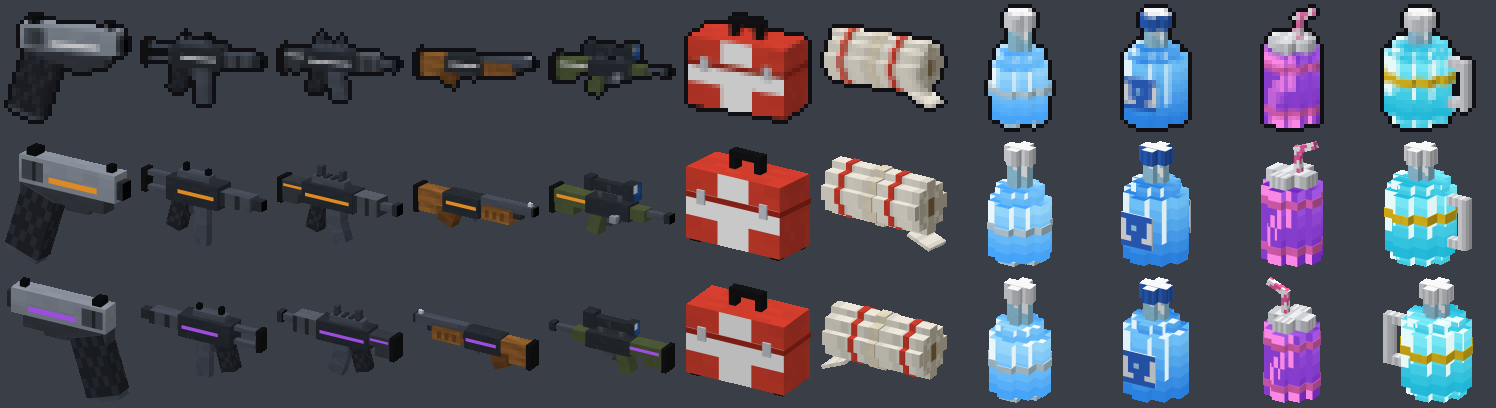
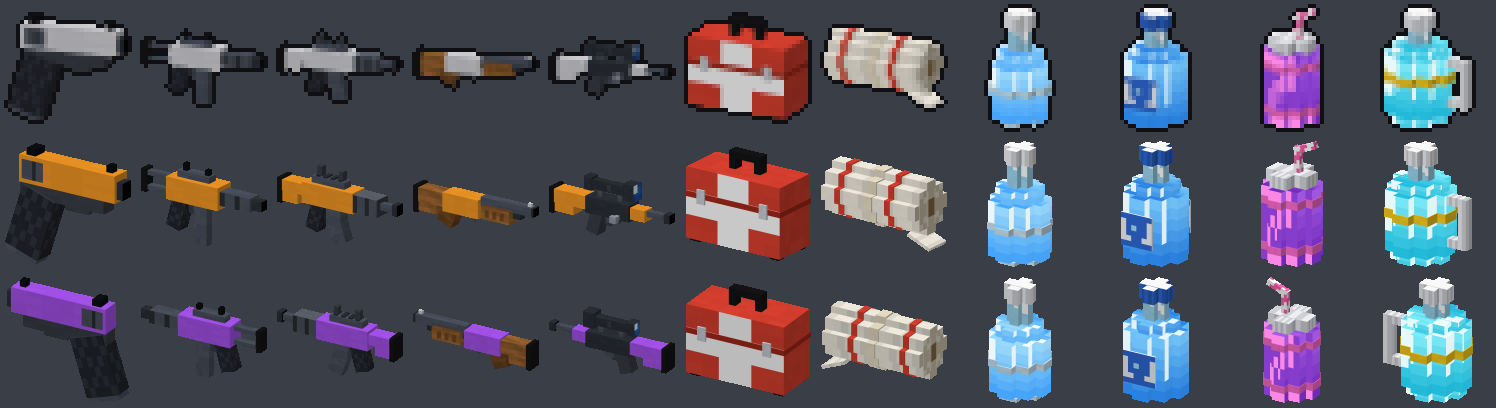
1.0.1-test1: guns in their rarity colour, loot beams, fairer bots
- Each gun's main body is drawn in its rarity colour instead of a thin stripe (make_item_models.py "paint" tile).
- LootBeams: a short light beam in the rarity colour over guns on the ground.
- Bots (BotEntity.mayChase): one without a gun loots instead of chasing players; none goes after a player with no
  gun; at most the 2 closest chase one player; a player who hits a bot can always be fought back.
- The main board shows a post-1.0 test build as "v1.0.1 - TEST 1".

diff --git a/fabric/tools/models/make_item_models.py b/fabric/tools/models/make_item_models.py
@@ -158,6 +158,15 @@ def _(x, y):  # tinted with the rarity colour: light, with a brighter top edge
     return (255, 255, 255, 255) if y < 2 else (226, 226, 226, 255)
 
 
+@tile("paint")
+def _(x, y):  # a gun's body, tinted with the rarity colour (creator: rarity should stand out more than a stripe)
+    if y == 0:
+        return (255, 255, 255, 255)
+    if y == TILE - 1:
+        return (196, 196, 196, 255)
+    return noise((236, 236, 236, 255), 0.03)
+
+
 @tile("dark")
 def _(x, y):
     return hexc("#0E0F12")
@@ -340,13 +349,12 @@ def zc(depth, mid=16.0):
 def gun_pistol():
     b = []
     z0, z1 = zc(3)
-    b += [box(8, 9, z0, 24, 13, z1, "metal_light", faces={"down": "metal_mid"})]  # slide
+    b += [box(8, 9, z0, 24, 13, z1, "paint", faces={"down": "metal_mid"}, tint=True)]  # slide, in the rarity colour
     b += [box(8.5, 9.6, z0 - 0.05, 12, 12.4, z0, "vents"), box(8.5, 9.6, z1, 12, 12.4, z1 + 0.05, "vents")]  # serrations
     b += [box(22, 8, 15.4, 23, 9, 16.6, "dark"), box(9, 8, 14.9, 10.5, 9, 17.1, "dark")]  # sights
     b += [box(24, 10, 15, 25, 12.5, 17, "bore", faces={"north": "metal_dark", "south": "metal_dark", "up": "metal_dark", "down": "metal_dark"})]
     zz0, zz1 = zc(2.6)
     b += [box(8, 13, zz0, 22, 15, zz1, "polymer")]  # frame
-    b += [box(13, 11.4, z0 - 0.08, 21, 12.2, z0, "accent", tint=True, glow=6), box(13, 11.4, z1, 21, 12.2, z1 + 0.08, "accent", tint=True, glow=6)]
     b += [box(15, 15, 15.5, 19, 16, 16.5, "polymer"), box(18, 13.5, 15.5, 19, 16, 16.5, "polymer"), box(15.6, 14.6, 15.7, 16.4, 16, 16.3, "metal_mid")]
     gz0, gz1 = zc(3.2)
     b += [box(8.4, 14, gz0, 14, 23.5, gz1, "grip", faces={"up": "polymer", "down": "rubber"}, rot=("z", -18, (11, 14.5, 16)))]
@@ -357,14 +365,13 @@ def gun_pistol():
 def gun_smg():
     b = []
     z0, z1 = zc(5)
-    b += [box(9, 11, z0, 22, 16, z1, "metal_dark")]  # receiver
+    b += [box(9, 11, z0, 22, 16, z1, "paint", tint=True)]  # receiver, in the rarity colour
     b += [box(11, 9.6, 14.8, 19, 11, 17.2, "metal_mid"), box(12, 8, 15.4, 13, 9.6, 16.6, "dark"), box(17.5, 8.4, 15.4, 18.5, 9.6, 16.6, "dark")]
     s0, s1 = zc(3.4)
     b += [box(22, 12, s0, 29.5, 15, s1, "vents", faces={"up": "metal_mid", "down": "metal_mid", "east": "metal_mid", "west": "metal_mid"})]
     b += [box(29.5, 12.4, 15, 32, 14.6, 17, "bore", faces={"north": "metal_dark", "south": "metal_dark", "up": "metal_dark", "down": "metal_dark"})]
     # Folding wire stock.
     b += [box(3, 11.4, 15.2, 9, 12.4, 16.8, "metal_mid"), box(3, 14.6, 15.2, 9, 15.6, 16.8, "metal_mid"), box(2, 11, 14.6, 3.2, 16, 17.4, "rubber")]
-    b += [box(12, 13.2, z0 - 0.08, 21, 14, z0, "accent", tint=True, glow=6), box(12, 13.2, z1, 21, 14, z1 + 0.08, "accent", tint=True, glow=6)]
     gz0, gz1 = zc(3.2)
     b += [box(10, 15.5, gz0, 13.4, 22.5, gz1, "grip", faces={"down": "rubber"}, rot=("z", -15, (11.7, 16, 16)))]
     b += [box(15, 15.8, 15, 18.2, 25, 17, "metal_mid", faces={"down": "dark"})]  # magazine
@@ -375,7 +382,7 @@ def gun_smg():
 def gun_assault_rifle():
     b = []
     z0, z1 = zc(5)
-    b += [box(7, 11, z0, 21, 16, z1, "metal_dark")]  # receiver
+    b += [box(7, 11, z0, 21, 16, z1, "paint", tint=True)]  # receiver, in the rarity colour
     b += [box(9, 9.4, 14.6, 18, 11, 17.4, "metal_mid")]  # top rail
     for x in range(10, 18, 2):
         b += [box(x, 9.0, 14.8, x + 1, 9.4, 17.2, "metal_dark")]
@@ -385,9 +392,7 @@ def gun_assault_rifle():
     b += [box(27.5, 12.5, 15.2, 31, 14.1, 16.8, "metal_mid")]
     b += [box(31, 12, 14.8, 32.4, 14.6, 17.2, "bore", faces={"north": "metal_dark", "south": "metal_dark", "up": "metal_dark", "down": "metal_dark"})]
     s0, s1 = zc(4)
-    b += [box(1, 11.8, s0, 7.2, 14.4, s1, "polymer"), box(1, 14.4, s0 + 0.2, 5.4, 17, s1 - 0.2, "polymer"), box(0, 11.4, s0 - 0.2, 1.2, 17.4, s1 + 0.2, "rubber")]
-    b += [box(8, 13.4, z0 - 0.08, 20, 14.2, z0, "accent", tint=True, glow=6), box(8, 13.4, z1, 20, 14.2, z1 + 0.08, "accent", tint=True, glow=6)]
-    b += [box(1.6, 12.6, s0 - 0.08, 6.6, 13.2, s0, "accent", tint=True, glow=4), box(1.6, 12.6, s1, 6.6, 13.2, s1 + 0.08, "accent", tint=True, glow=4)]
+    b += [box(1, 11.8, s0, 7.2, 14.4, s1, "paint", tint=True), box(1, 14.4, s0 + 0.2, 5.4, 17, s1 - 0.2, "paint", tint=True), box(0, 11.4, s0 - 0.2, 1.2, 17.4, s1 + 0.2, "rubber")]
     gz0, gz1 = zc(3.2)
     b += [box(9, 15.5, gz0, 12.4, 22.5, gz1, "grip", faces={"down": "rubber"}, rot=("z", -15, (10.7, 16, 16)))]
     m0, m1 = zc(3)
@@ -399,7 +404,7 @@ def gun_assault_rifle():
 def gun_pump_shotgun():
     b = []
     z0, z1 = zc(4.4)
-    b += [box(8, 11.6, z0, 17.5, 16, z1, "metal_dark")]  # receiver
+    b += [box(8, 11.6, z0, 17.5, 16, z1, "paint", tint=True)]  # receiver, in the rarity colour
     b += [box(17.5, 11, 14.9, 31, 13, 17.1, "metal_mid")]  # barrel
     b += [box(31, 11, 14.9, 31.6, 13, 17.1, "bore", faces={"north": "metal_dark", "south": "metal_dark", "up": "metal_dark", "down": "metal_dark"})]
     b += [box(17.5, 13, 15.1, 28, 14.4, 16.9, "metal_dark")]  # tube magazine
@@ -411,7 +416,6 @@ def gun_pump_shotgun():
     s0, s1 = zc(3.6)
     b += [box(1, 12, s0, 8.4, 15.2, s1, "wood"), box(1, 15.2, s0 + 0.2, 6, 17.4, s1 - 0.2, "wood"), box(0, 11.6, s0 - 0.2, 1.2, 17.8, s1 + 0.2, "rubber")]
     b += [box(7.4, 15, s0 + 0.3, 11.4, 19.4, s1 - 0.3, "wood_dark", rot=("z", -22.5, (9.4, 15.5, 16)))]  # grip wrist
-    b += [box(9, 13.3, z0 - 0.08, 17, 14.1, z0, "accent", tint=True, glow=6), box(9, 13.3, z1, 17, 14.1, z1 + 0.08, "accent", tint=True, glow=6)]
     b += [box(11, 16, 15.6, 15.4, 16.8, 16.4, "metal_mid"), box(14.6, 16, 15.6, 15.4, 17.6, 16.4, "metal_mid")]
     return b
 
@@ -419,11 +423,10 @@ def gun_pump_shotgun():
 def gun_sniper():
     b = []
     s0, s1 = zc(4)
-    b += [box(1, 12.2, s0, 11, 15.4, s1, "olive"), box(1, 15.4, s0 + 0.3, 6.4, 17.6, s1 - 0.3, "olive"), box(0, 11.8, s0 - 0.2, 1.2, 18, s1 + 0.2, "rubber")]
-    b += [box(2, 13.2, s0 - 0.08, 10, 14, s0, "accent", tint=True, glow=4), box(2, 13.2, s1, 10, 14, s1 + 0.08, "accent", tint=True, glow=4)]
+    b += [box(1, 12.2, s0, 11, 15.4, s1, "paint", tint=True), box(1, 15.4, s0 + 0.3, 6.4, 17.6, s1 - 0.3, "paint", tint=True), box(0, 11.8, s0 - 0.2, 1.2, 18, s1 + 0.2, "rubber")]
     z0, z1 = zc(4.4)
     b += [box(10, 12, z0, 22, 16, z1, "metal_dark")]  # receiver
-    b += [box(22, 12.6, z0 + 0.6, 26, 15.4, z1 - 0.6, "olive")]  # fore-end
+    b += [box(22, 12.6, z0 + 0.6, 26, 15.4, z1 - 0.6, "paint", tint=True)]  # fore-end, in the rarity colour
     b += [box(26, 12.9, 15.25, 31, 14.2, 16.75, "metal_mid")]
     b += [box(31, 12.5, 14.9, 32.6, 14.6, 17.1, "bore", faces={"north": "metal_dark", "south": "metal_dark", "up": "metal_dark", "down": "metal_dark"})]
     # Scope: tube, bells with lenses, mounts.
@@ -433,7 +436,7 @@ def gun_sniper():
     b += [box(15.5, 8.6, 14.7, 16.5, 10, 17.3, "polymer")]  # turret
     b += [box(18.6, 14.8, z1, 19.6, 15.8, 19.6, "metal_light"), box(18.2, 14.6, 19.2, 20, 16.2, 20.4, "metal_light")]  # bolt handle
     gz0, gz1 = zc(3.2)
-    b += [box(11, 15.6, gz0, 14.2, 21, gz1, "olive", faces={"down": "rubber"}, rot=("z", -15, (12.6, 16, 16)))]
+    b += [box(11, 15.6, gz0, 14.2, 21, gz1, "polymer", faces={"down": "rubber"}, rot=("z", -15, (12.6, 16, 16)))]
     b += [box(15, 15.8, 15.2, 18, 17.8, 16.8, "metal_mid"), box(14.2, 16, 15.6, 14.9, 18.6, 16.4, "polymer"), box(14.2, 18, 15.6, 15.8, 18.7, 16.4, "polymer")]
     return b
 

diff --git a/fabric/src/main/java/gg/minebloxroyale/bot/BotEntity.java b/fabric/src/main/java/gg/minebloxroyale/bot/BotEntity.java
@@ -113,6 +113,13 @@ public class BotEntity extends PathfinderMob {
 	private String finishedBy;
 	/** Ticks spent searching the chest it stands at (chestSearchSeconds, like a player holding F). */
 	private int searchTicks;
+	/** The player who last hurt it, and when: it may always fight them back. */
+	private UUID provokedBy;
+	private int provokedAt = -1000;
+	/** How long a hit lets it fight back against anyone (a player with no gun, a player others already chase). */
+	private static final int PROVOKED_TICKS = 20 * 20;
+	/** Bots chasing one player at once (creator: they ganged up on a player who had just landed). */
+	private static final int MAX_CHASERS = 2;
 
 	public BotEntity(EntityType<? extends BotEntity> type, Level level) {
 		super(type, level);
@@ -692,30 +699,51 @@ public class BotEntity extends PathfinderMob {
 	private void pickTarget(ServerLevel level) {
 		// (A player who switched to creative is dropped too, like one in creative is never picked.)
 		if (target != null && (!target.isAlive() || target.isSpectator() || target instanceof Player tp && tp.isCreative() || Teams.sameTeam(this, target)
-			|| distanceTo(target) > 64 || !hasLineOfSight(target))) target = null;
+			|| distanceTo(target) > 64 || !hasLineOfSight(target) || target instanceof Player p && !mayChase(level, p))) target = null;
 		// A visible player within botPlayerRange can be picked at any time, even while this bot is fighting another
 		// bot.
 		float playerRange = MinebloxRoyale.setting("botPlayerRange");
 		if (target instanceof BotEntity && getRandom().nextFloat() < MinebloxRoyale.setting("botPlayerSwitchChance")) {
-			Player p = level.getEntitiesOfClass(Player.class, getBoundingBox().inflate(playerRange),
-					e -> e.isAlive() && !e.isSpectator() && !e.isCreative() && !Teams.sameTeam(this, e) && distanceTo(e) <= playerRange && hasLineOfSight(e))
-				.stream().min(Comparator.comparingDouble(this::distanceToSqr)).orElse(null);
+			Player p = nearestPlayer(level, playerRange);
 			if (p != null) target = p;
 		}
 		if (target != null) return;
-		// The nearest visible fighter, players first: a player within botPlayerRange is always chased, armed or not (an
-		// unarmed bot runs in with its pickaxe); without a gun, other bots only up close.
-		Player near = level.getEntitiesOfClass(Player.class, getBoundingBox().inflate(playerRange),
-				e -> e.isAlive() && !e.isSpectator() && !e.isCreative() && !Teams.sameTeam(this, e) && distanceTo(e) <= playerRange && hasLineOfSight(e))
-			.stream().min(Comparator.comparingDouble(this::distanceToSqr)).orElse(null);
+		// The nearest visible fighter, players first (a player within botPlayerRange is chased when that's fair:
+		// mayChase); without a gun, other bots only up close.
+		Player near = nearestPlayer(level, playerRange);
 		if (near != null) {
 			target = near;
 			return;
 		}
 		double reach = armed() ? 48 : 6;
 		target = level.getEntitiesOfClass(LivingEntity.class, getBoundingBox().inflate(reach),
-				e -> e != this && e.isAlive() && !e.isSpectator() && !Teams.sameTeam(this, e) && (e instanceof BotEntity || (e instanceof Player p && !p.isCreative())) && hasLineOfSight(e))
+				e -> e != this && e.isAlive() && !e.isSpectator() && !Teams.sameTeam(this, e) && (e instanceof BotEntity || (e instanceof Player p && !p.isCreative() && mayChase(level, p))) && hasLineOfSight(e))
 			.stream().min(Comparator.comparingDouble(e -> distanceToSqr(e) * (e instanceof Player && distanceTo(e) <= playerRange ? 0.5 : 1.0))).orElse(null);
+	}
+
+	private Player nearestPlayer(ServerLevel level, float range) {
+		return level.getEntitiesOfClass(Player.class, getBoundingBox().inflate(range),
+				e -> e.isAlive() && !e.isSpectator() && !e.isCreative() && !Teams.sameTeam(this, e) && distanceTo(e) <= range && hasLineOfSight(e) && mayChase(level, e))
+			.stream().min(Comparator.comparingDouble(this::distanceToSqr)).orElse(null);
+	}
+
+	/**
+	 * Fair to go after this player (creator: bots ganged up on a player who had just landed, before they had a gun)? A
+	 * player who hit it lately, always. Otherwise only with a gun of its own (it loots first after landing), only a
+	 * player who has a gun too, and only while fewer than MAX_CHASERS bots closer to them are on them already.
+	 */
+	private boolean mayChase(ServerLevel level, Player p) {
+		if (p.getUUID().equals(provokedBy) && tickCount - provokedAt < PROVOKED_TICKS) return true;
+		if (!armed() || !hasGun(p)) return false;
+		double mine = distanceToSqr(p);
+		return level.getEntitiesOfClass(BotEntity.class, p.getBoundingBox().inflate(64),
+			b -> b != this && b.target == p && b.isAlive() && b.distanceToSqr(p) < mine).size() < MAX_CHASERS;
+	}
+
+	private static boolean hasGun(Player p) {
+		for (int i = 0; i < p.getInventory().getContainerSize(); i++)
+			if (p.getInventory().getItem(i).getItem() instanceof WeaponItem) return true;
+		return false;
 	}
 
 	/** Knocked: crawl towards the nearest teammate who is standing (or stay put). */
@@ -834,6 +862,10 @@ public class BotEntity extends PathfinderMob {
 		Entity by = source.getEntity();
 		if (hurt && by instanceof LivingEntity le && le != this && !Teams.sameTeam(this, le) && !Knocked.is(this)) {
 			lastHurt = tickCount;
+			if (le instanceof Player) {
+				provokedBy = le.getUUID();
+				provokedAt = tickCount;
+			}
 			if (target == null || getRandom().nextFloat() < 0.5F) target = le;
 			if (caring) { // shot while drinking: stop and fight back (out of its box's wall on the shooter's side)
 				stopUsingItem();

diff --git a/fabric/src/client/java/gg/minebloxroyale/client/LootBeams.java b/fabric/src/client/java/gg/minebloxroyale/client/LootBeams.java
@@ -1,0 +1,71 @@
+package gg.minebloxroyale.client;
+
+import com.mojang.blaze3d.vertex.PoseStack;
+import com.mojang.blaze3d.vertex.VertexConsumer;
+import gg.minebloxroyale.item.Guns;
+import gg.minebloxroyale.item.WeaponItem;
+import java.util.ArrayList;
+import java.util.List;
+import net.minecraft.client.Minecraft;
+import net.minecraft.client.renderer.SubmitNodeCollector;
+import net.minecraft.client.renderer.rendertype.RenderTypes;
+import net.minecraft.client.renderer.texture.OverlayTexture;
+import net.minecraft.world.entity.Entity;
+import net.minecraft.world.entity.item.ItemEntity;
+import net.minecraft.world.phys.Vec3;
+
+/**
+ * Fortnite's loot beams (creator: a gun's rarity should stand out more): a short pillar of light in the rarity colour
+ * over every gun lying on the ground, bright at the bottom and fading out upwards, so you can tell a gold gun from a
+ * grey one from across a room.
+ */
+public final class LootBeams {
+	private static final double RANGE = 64, HEIGHT = 2.6;
+	private static final int FULL_BRIGHT = 0xF000F0;
+
+	private LootBeams() {
+	}
+
+	static void draw(PoseStack ps, SubmitNodeCollector out, Vec3 cam) {
+		Minecraft mc = Minecraft.getInstance();
+		if (mc.level == null || mc.player == null) return;
+		List<double[]> beams = new ArrayList<>();
+		for (Entity e : mc.level.entitiesForRendering()) {
+			if (!(e instanceof ItemEntity item) || !(item.getItem().getItem() instanceof WeaponItem)) continue;
+			if (e.distanceToSqr(mc.player) > RANGE * RANGE) continue;
+			beams.add(new double[] { e.getX(), e.getY(), e.getZ(), Guns.rarity(item.getItem()).color() });
+		}
+		if (beams.isEmpty()) return;
+		out.submitCustomGeometry(ps, RenderTypes.entityTranslucentEmissive(WorldVisuals.white()), (pose, vc) -> {
+			for (double[] b : beams) {
+				int rgb = (int) b[3] & 0xFFFFFF;
+				column(vc, pose, cam, b[0], b[1], b[2], 0.05, 0xC0, rgb);
+				column(vc, pose, cam, b[0], b[1], b[2], 0.16, 0x48, rgb);
+			}
+		});
+	}
+
+	/** Four sides of a square pillar, alpha going from `alpha` at the bottom to nothing at the top. */
+	private static void column(VertexConsumer vc, PoseStack.Pose pose, Vec3 cam, double x, double y, double z, double r, int alpha, int rgb) {
+		int bottom = alpha << 24 | rgb, top = rgb;
+		double[][] c = { { x - r, z - r }, { x + r, z - r }, { x + r, z + r }, { x - r, z + r } };
+		for (int i = 0; i < 4; i++) {
+			double[] a = c[i], b = c[(i + 1) % 4];
+			float nx = (float) Math.signum((a[0] + b[0]) / 2 - x), nz = (float) Math.signum((a[1] + b[1]) / 2 - z);
+			// Both windings, so the pillar shows from inside too.
+			v(vc, pose, cam, a[0], y + HEIGHT, a[1], top, nx, nz);
+			v(vc, pose, cam, a[0], y, a[1], bottom, nx, nz);
+			v(vc, pose, cam, b[0], y, b[1], bottom, nx, nz);
+			v(vc, pose, cam, b[0], y + HEIGHT, b[1], top, nx, nz);
+			v(vc, pose, cam, b[0], y + HEIGHT, b[1], top, -nx, -nz);
+			v(vc, pose, cam, b[0], y, b[1], bottom, -nx, -nz);
+			v(vc, pose, cam, a[0], y, a[1], bottom, -nx, -nz);
+			v(vc, pose, cam, a[0], y + HEIGHT, a[1], top, -nx, -nz);
+		}
+	}
+
+	private static void v(VertexConsumer vc, PoseStack.Pose pose, Vec3 cam, double x, double y, double z, int color, float nx, float nz) {
+		vc.addVertex(pose, (float) (x - cam.x), (float) (y - cam.y), (float) (z - cam.z)).setColor(color).setUv(0.5F, 0.5F)
+			.setOverlay(OverlayTexture.NO_OVERLAY).setLight(FULL_BRIGHT).setNormal(pose, nx, 0, nz);
+	}
+}

diff --git a/fabric/src/main/java/gg/minebloxroyale/MinebloxRoyale.java b/fabric/src/main/java/gg/minebloxroyale/MinebloxRoyale.java
@@ -58,14 +58,15 @@ public final class MinebloxRoyale implements ModInitializer {
 	}
 
 	/**
-	 * The version as players see it (the main board in the hub): still in development testing, so a test build is
-	 * "PRE-ALPHA - TEST 12" (creator: "you can name the version since this is still in dev testing"); any other build
-	 * "v" and its number.
+	 * The version as players see it (the main board in the hub): a release is "v" and its number; a test build of one
+	 * is "v1.0.1 - TEST 1", and the test builds before 1.0.0 were "PRE-ALPHA - TEST 12" (creator: "you can name the
+	 * version since this is still in dev testing").
 	 */
 	public static String versionName() {
 		String v = version();
 		int test = v.indexOf("-test");
-		return test >= 0 ? "PRE-ALPHA - TEST " + v.substring(test + 5) : "v" + v;
+		if (test < 0) return "v" + v;
+		return (v.startsWith("0.") ? "PRE-ALPHA" : "v" + v.substring(0, test)) + " - TEST " + v.substring(test + 5);
 	}
 
 	/** A number from the match sheet. */

diff --git a/fabric/src/client/java/gg/minebloxroyale/client/WorldVisuals.java b/fabric/src/client/java/gg/minebloxroyale/client/WorldVisuals.java
@@ -19,7 +19,7 @@ import net.minecraft.world.phys.Vec3;
 
 /**
  * Hub: the parked Battle Bus and the Fortnite splash billboard. Match: the storm wall (StormVisuals), reboot vans,
- * waypoint beacons and Build mode's ghost piece.
+ * loot beams over guns on the ground, waypoint beacons and Build mode's ghost piece.
  */
 public final class WorldVisuals {
 	private static final int FULL_BRIGHT = 0xF000F0;
@@ -49,6 +49,7 @@ public final class WorldVisuals {
 		} else {
 			if (ClientState.hud.phase().equals("LIVE")) StormVisuals.draw(ps, out, cam);
 			vans(mc, ps, out, cam);
+			LootBeams.draw(ps, out, cam);
 			Waypoint.beacon(ps, out, cam);
 			BuildMode.preview(ps, out, cam);
 		}
